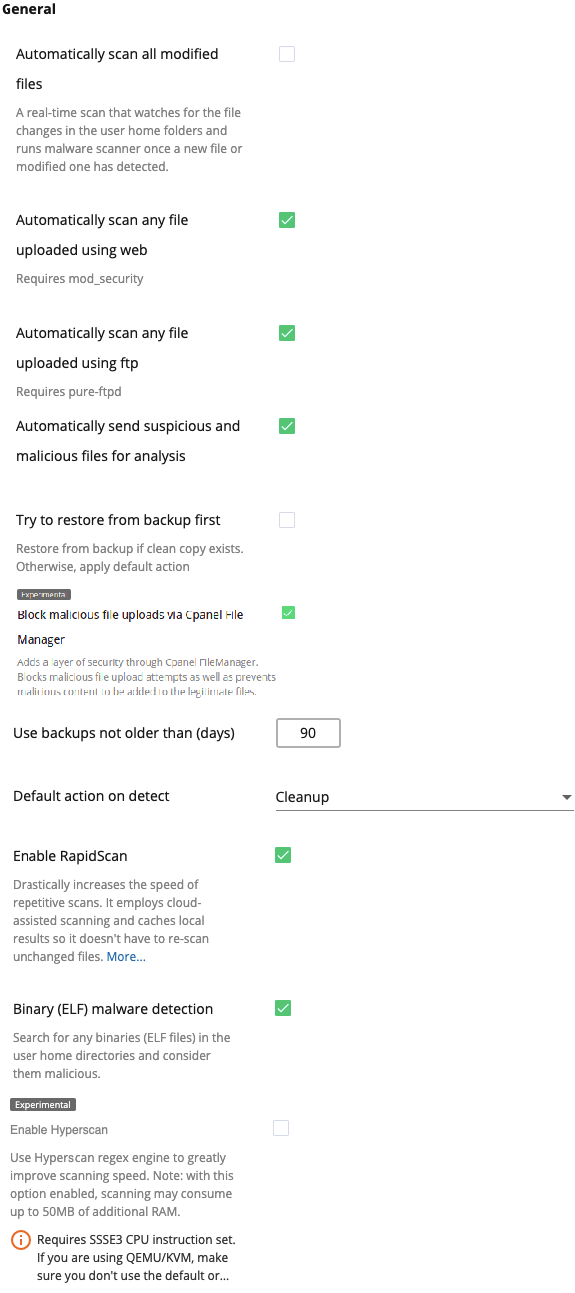
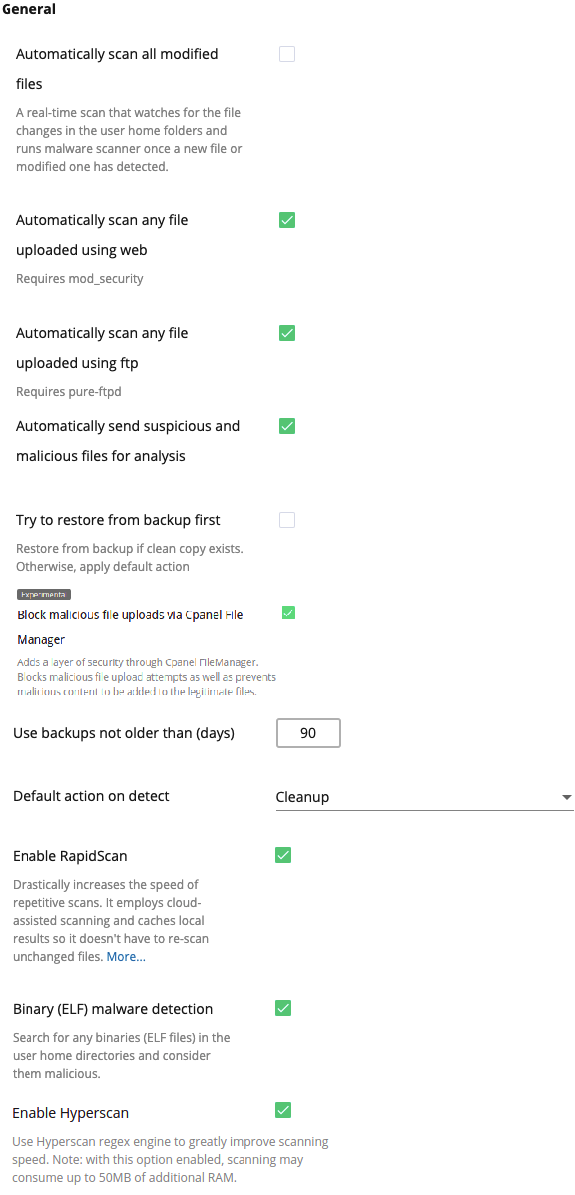
PT-2253: Imunify360 v.5.11 docs changes

diff --git a/docs/config_file_description/README.md b/docs/config_file_description/README.md
@@ -135,8 +135,8 @@ that were uploaded via http/https. Note that it requires <a href="https://modsec
 <td># speeds up (<span class="notranslate">True</span>) (default value) ot not (<span class="notranslate">False</span>) repeated scans based on smart re-scan approach, local result caching and cloud-assisted scan.</td></tr>
 <tr><td><span class="notranslate">rapid_scan_rescan_unchanging_files_frequency: null</span></td>
 <td># defines what part of all files will be rescanned during each scan. For example, if set 10 then 1/10 part of all files will be rescanned. The default value `null` - means "choose frequency based on scan schedule". E.g. month - 1, week - 5, day - 10.</td></tr>
-<tr><td><span class="notranslate">hyperscan: False</span></td>
-<td># allows to use (<span class="notranslate">True</span>) the regex matching Hyperscan library in Malware Scanner to greatly improve the scanning speed. <span class="notranslate">False</span> is the default value. Hyperscan requires its own signatures set that will be downloaded from the files.imunify360.com and compiled locally.<br><b>Platform requirements</b>:<br>* Hyperscan supports Debian, Ubuntu and CentOS/CloudLinux 7 and later.<br>* SSE3 processor instructions support. It is quite common nowadays, but may be lacking in virtual environments or in some rather old servers.</td></tr>
+<tr><td><span class="notranslate">hyperscan: True</span></td>
+<td># allows to use (<span class="notranslate">True</span>) the regex matching Hyperscan library in Malware Scanner to greatly improve the scanning speed. <span class="notranslate">True</span> is the default value. Hyperscan requires its own signatures set that will be downloaded from the files.imunify360.com and compiled locally.<br><b>Platform requirements</b>:<br>* Hyperscan supports Debian, Ubuntu and CentOS/CloudLinux 7 and later.<br>* SSE3 processor instructions support. It is quite common nowadays, but may be lacking in virtual environments or in some rather old servers.</td></tr>
 <tr><td><span class="notranslate">enable_scan_cpanel: False</span></td>
 <td># enable (<span class="notranslate">True</span>) blocking malicious file uploads via cPanel File Manager. The default value is <span class="notranslate">False</span>. The type of operations processed are: edits and saves</td></tr>
 <tr>

diff --git a/docs/dashboard/README.md b/docs/dashboard/README.md
@@ -1708,7 +1708,7 @@ Those options may be hidden for end-user if Cleanup is disabled in Features Mana
 
 * <span class="notranslate">_Enable RapidScan_</span> – dramatically speeds up repeated scans based on smart re-scan approach, local result caching and cloud-assisted scan. When you first enable the RapidScan feature, the first scan will run as before. But subsequent scans will see a dramatic speed improvement, anywhere between 5 to 20 times faster. You can find details [here](/features/#rapidscan).
 * <span class="notranslate">_Binary (ELF) malware detection_</span> – this option allows to search for any binaries (ELF files) in the user home directories and consider them malicious.
-* <span class="notranslate">_Enable Hyperscan_</span><sup>_Experimental_</sup> – this option allows to use the regex matching Hyperscan library in Malware Scanner to greatly improve the scanning speed. Hyperscan requires its own signatures set that will be downloaded from the files.imunify360.com and compiled locally. 
+* <span class="notranslate">_Enable Hyperscan_</span> – this option allows to use the regex matching Hyperscan library in Malware Scanner to greatly improve the scanning speed. Hyperscan requires its own signatures set that will be downloaded from the files.imunify360.com and compiled locally. 
 There are few platform requirements to use this feature:
   * Hyperscan supports Debian, Ubuntu and CentOS/CloudLinux 7 and later.
   * SSE3 processor instructions support. It is quite common nowadays, but may be lacking in virtual environments or in some rather old servers.
